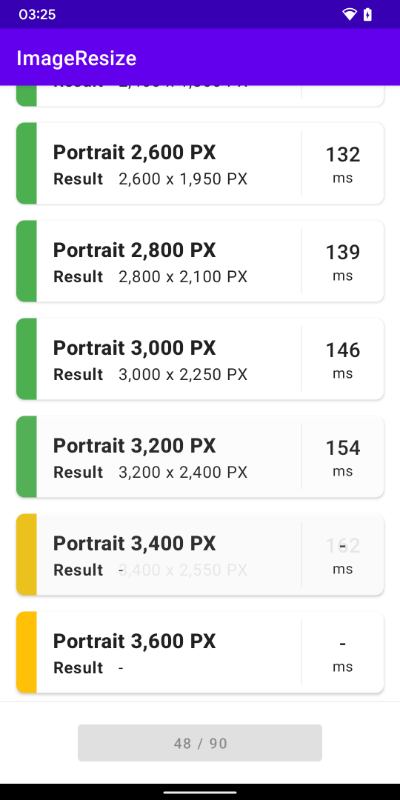
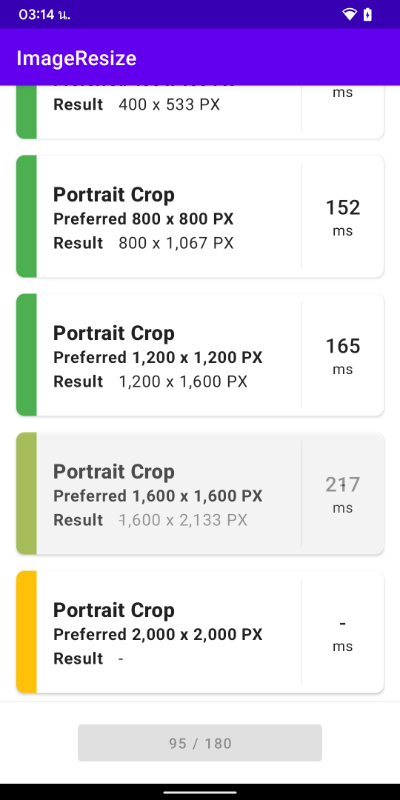
Add different image orientation support

diff --git a/app/src/main/java/com/akexorcist/imageresize/ui/MainViewModel.kt b/app/src/main/java/com/akexorcist/imageresize/ui/MainViewModel.kt
@@ -20,8 +20,8 @@ class MainViewModel(app: Application) : AndroidViewModel(app) {
         private const val FILE_NAME_PORTRAIT = "sample-portrait.jpg"
         private const val FILE_NAME_LANDSCAPE = "sample-landscape.jpg"
         private const val FILE_NAME_SQUARE = "sample-square.jpg"
-        private const val IMAGE_RESIZE_COUNT = 20
-        private const val IMAGE_RESIZE_STEP = 200
+        private const val IMAGE_RESIZE_COUNT = 10
+        private const val IMAGE_RESIZE_STEP = 400
     }
 
     private val imageResizer = ImageResizer()
@@ -53,59 +53,71 @@ class MainViewModel(app: Application) : AndroidViewModel(app) {
     }
 
     fun startImageResize() = viewModelScope.launch(Dispatchers.IO) {
-        val images: List<Triple<ImageRatio, File, ResizeType>> = listOf(
-            Triple(ImageRatio.Landscape, File(context.cacheDir, FILE_NAME_LANDSCAPE), ResizeType.Fill),
-            Triple(ImageRatio.Portrait, File(context.cacheDir, FILE_NAME_PORTRAIT), ResizeType.Fill),
-            Triple(ImageRatio.Square, File(context.cacheDir, FILE_NAME_SQUARE), ResizeType.Fill),
-            Triple(ImageRatio.Landscape, File(context.cacheDir, FILE_NAME_LANDSCAPE), ResizeType.Crop),
-            Triple(ImageRatio.Portrait, File(context.cacheDir, FILE_NAME_PORTRAIT), ResizeType.Crop),
-            Triple(ImageRatio.Square, File(context.cacheDir, FILE_NAME_SQUARE), ResizeType.Crop),
+        val images: List<Pair<ImageRatio, File>> = listOf(
+            ImageRatio.Landscape to File(context.cacheDir, FILE_NAME_LANDSCAPE),
+            ImageRatio.Portrait to File(context.cacheDir, FILE_NAME_PORTRAIT),
+            ImageRatio.Square to File(context.cacheDir, FILE_NAME_SQUARE),
         )
-        val totalImageResizeCount = IMAGE_RESIZE_COUNT * images.size
-        val skipLargerResize = false
+        val resizeTypes = listOf(
+            ResizeType.Fill,
+            ResizeType.Crop
+        )
+        val initialSize = listOf(
+            (IMAGE_RESIZE_STEP * 1.0f).toInt() to (IMAGE_RESIZE_STEP * 1.0f).toInt(),
+            (IMAGE_RESIZE_STEP * 1.2f).toInt() to (IMAGE_RESIZE_STEP * 1.0f).toInt(),
+            (IMAGE_RESIZE_STEP * 1.0f).toInt() to (IMAGE_RESIZE_STEP * 1.2f).toInt()
+        )
+        val totalImageResizeCount = IMAGE_RESIZE_COUNT * images.size * resizeTypes.size * initialSize.size
+        val skipLargerResize = true
         _uiModel.postValue(uiMapper.onImageResizeStarted(totalImageResizeCount))
-        images.forEach { (ratio, file, resizeType) ->
-            val originalImageSize = when (resizeType) {
-                ResizeType.Fill -> imageResizer.getMaxImageSize(file.absolutePath)
-                ResizeType.Crop -> imageResizer.getMinImageSize(file.absolutePath)
-            }
-            (1..IMAGE_RESIZE_COUNT).forEach { index ->
-                val preferredSize = IMAGE_RESIZE_STEP * index
-                updateUiModel {
-                    uiMapper.onImageResizeNext(
-                        uiModel = _uiModel.value,
-                        preferredSize = preferredSize,
-                        ratio = ratio,
-                        total = totalImageResizeCount,
-                        resizeType = resizeType
-                    )
-                }
-                var bitmap: Bitmap?
-                val millis = measureTimeMillis {
-                    bitmap = imageResizer.resize(
-                        preferredSize = preferredSize,
-                        path = file.absolutePath,
-                        resizeType = resizeType,
-                        skipLargerResize = skipLargerResize
-                    )
-                }
-                val width = bitmap?.width ?: -1
-                val height = bitmap?.height ?: -1
+        images.forEach { (ratio, file) ->
+            resizeTypes.forEach { resizeType ->
+                initialSize.forEach { (initialWidth, initialHeight) ->
+                    val (originalImageWidth, originalImageHeight) = imageResizer.getOriginalImageSize(file.absolutePath)
+                    (1..IMAGE_RESIZE_COUNT).forEach { index ->
+                        val preferredWidth = initialWidth * index
+                        val preferredHeight = initialHeight * index
+                        updateUiModel {
+                            uiMapper.onImageResizeNext(
+                                uiModel = _uiModel.value,
+                                preferredWidth = preferredWidth,
+                                preferredHeight = preferredHeight,
+                                ratio = ratio,
+                                total = totalImageResizeCount,
+                                resizeType = resizeType
+                            )
+                        }
+                        var bitmap: Bitmap?
+                        val millis = measureTimeMillis {
+                            bitmap = imageResizer.resize(
+                                preferredWidth = preferredWidth,
+                                preferredHeight = preferredHeight,
+                                path = file.absolutePath,
+                                resizeType = resizeType,
+                                skipLargerResize = skipLargerResize
+                            )
+                        }
+                        val width = bitmap?.width ?: -1
+                        val height = bitmap?.height ?: -1
 //                bitmap?.let { saveToStorage(it, preferredSize, ratio) }
-                bitmap?.recycle()
-                updateUiModel {
-                    uiMapper.onImageResizeStatusUpdated(
-                        uiModel = _uiModel.value,
-                        originalSize = originalImageSize,
-                        preferredSize = preferredSize,
-                        actualWidth = width,
-                        actualHeight = height,
-                        executionTime = millis,
-                        ratio = ratio,
-                        resizeType = resizeType,
-                        total = totalImageResizeCount,
-                        skipLargerResize = skipLargerResize
-                    )
+                        bitmap?.recycle()
+                        updateUiModel {
+                            uiMapper.onImageResizeStatusUpdated(
+                                uiModel = _uiModel.value,
+                                originalWidth = originalImageWidth,
+                                originalHeight = originalImageHeight,
+                                preferredWidth = preferredWidth,
+                                preferredHeight = preferredHeight,
+                                actualWidth = width,
+                                actualHeight = height,
+                                executionTime = millis,
+                                ratio = ratio,
+                                resizeType = resizeType,
+                                total = totalImageResizeCount,
+                                skipLargerResize = skipLargerResize
+                            )
+                        }
+                    }
                 }
             }
         }

diff --git a/app/src/main/java/com/akexorcist/imageresize/ui/MainUiMapper.kt b/app/src/main/java/com/akexorcist/imageresize/ui/MainUiMapper.kt
@@ -23,7 +23,8 @@ class MainUiMapper {
 
     fun onImageResizeNext(
         uiModel: MainUiModel?,
-        preferredSize: Int,
+        preferredWidth: Int,
+        preferredHeight: Int,
         total: Int,
         ratio: ImageRatio,
         resizeType: ResizeType
@@ -32,7 +33,8 @@ class MainUiMapper {
         val addedResults = results.toMutableList().apply {
             add(
                 TestResult(
-                    preferredSize = preferredSize,
+                    preferredWidth = preferredWidth,
+                    preferredHeight = preferredHeight,
                     actualWidth = -1,
                     actualHeight = -1,
                     executionTime = -1,
@@ -51,8 +53,10 @@ class MainUiMapper {
 
     fun onImageResizeStatusUpdated(
         uiModel: MainUiModel?,
-        originalSize: Int,
-        preferredSize: Int,
+        originalWidth: Int,
+        originalHeight: Int,
+        preferredWidth: Int,
+        preferredHeight: Int,
         actualWidth: Int,
         actualHeight: Int,
         executionTime: Long,
@@ -62,22 +66,27 @@ class MainUiMapper {
         skipLargerResize: Boolean
     ): MainUiModel {
         val results = uiModel?.results ?: listOf()
-        val maxActualSize = actualWidth.coerceAtLeast(actualHeight)
-        val minActualSize = actualWidth.coerceAtMost(actualHeight)
-        val expectSize =
-            if(skipLargerResize) originalSize.coerceAtMost(preferredSize)
-            else preferredSize
         val state = when {
-            resizeType == ResizeType.Fill && maxActualSize == expectSize -> ResizeStatus.Pass
-            resizeType == ResizeType.Crop && minActualSize == expectSize -> ResizeStatus.Pass
+            resizeType == ResizeType.Fill &&
+                    (actualWidth == preferredWidth || actualHeight == preferredHeight) &&
+                    (actualWidth <= preferredWidth && actualHeight <= preferredHeight) ||
+                    (skipLargerResize && actualWidth == originalWidth && actualHeight == originalHeight) ->
+                ResizeStatus.Pass
+            resizeType == ResizeType.Crop &&
+                    (actualWidth == preferredWidth || actualHeight == preferredHeight) &&
+                    (actualWidth >= preferredWidth && actualHeight >= preferredHeight) ||
+                    (skipLargerResize && actualWidth == originalWidth && actualHeight == originalHeight) ->
+                ResizeStatus.Pass
             else -> ResizeStatus.Failed
         }
         val updatedResults = results.map {
-            if (preferredSize == it.preferredSize &&
+            if (preferredWidth == it.preferredWidth &&
+                preferredHeight == it.preferredHeight &&
                 ratio == it.ratio &&
                 resizeType == it.resizeType
             ) TestResult(
-                preferredSize = preferredSize,
+                preferredWidth = preferredWidth,
+                preferredHeight = preferredHeight,
                 actualWidth = actualWidth,
                 actualHeight = actualHeight,
                 executionTime = executionTime,

diff --git a/app/src/main/java/com/akexorcist/imageresize/resize/ImageResizer.kt b/app/src/main/java/com/akexorcist/imageresize/resize/ImageResizer.kt
@@ -1,11 +1,13 @@
 package com.akexorcist.imageresize.resize
 
+import android.content.Context
 import android.graphics.Bitmap
 import android.graphics.BitmapFactory
 
 class ImageResizer {
     fun resize(
-        preferredSize: Int,
+        preferredWidth: Int,
+        preferredHeight: Int,
         path: String,
         resizeType: ResizeType,
         skipLargerResize: Boolean = true,
@@ -13,33 +15,41 @@ class ImageResizer {
         return BitmapFactory.Options().run {
             inJustDecodeBounds = true
             BitmapFactory.decodeFile(path, this)
-            inSampleSize = calculateInSampleSize(this, preferredSize, preferredSize)
+            inSampleSize = calculateInSampleSize(this, preferredWidth, preferredHeight)
             inJustDecodeBounds = false
-            val expectSize = when (resizeType) {
-                ResizeType.Fill -> outWidth.coerceAtLeast(outHeight)
-                ResizeType.Crop -> outWidth.coerceAtMost(outHeight)
-            }
-            if (!skipLargerResize || expectSize > preferredSize) {
-                inDensity = expectSize
-                inTargetDensity = preferredSize * inSampleSize
+            if(!skipLargerResize || preferredWidth < outWidth && preferredHeight < outHeight) {
+                val outRatio = outWidth.toFloat() / outHeight.toFloat()
+                val reqRatio = preferredWidth.toFloat() / preferredHeight.toFloat()
+                when (resizeType) {
+                    ResizeType.Fill -> {
+                        if (outRatio > reqRatio) {
+                            inDensity = outWidth
+                            inTargetDensity = preferredWidth * inSampleSize
+                        } else if (outRatio <= reqRatio) {
+                            inDensity = outHeight
+                            inTargetDensity = preferredHeight * inSampleSize
+                        }
+                    }
+                    ResizeType.Crop -> {
+                        if (outRatio > reqRatio) {
+                            inDensity = outHeight
+                            inTargetDensity = preferredHeight * inSampleSize
+                        } else if (outRatio <= reqRatio) {
+                            inDensity = outWidth
+                            inTargetDensity = preferredWidth * inSampleSize
+                        }
+                    }
+                }
             }
             BitmapFactory.decodeFile(path, this)
         }
     }
 
-    fun getMaxImageSize(path: String): Int {
+    fun getOriginalImageSize(path: String): Pair<Int, Int> {
         return BitmapFactory.Options().run {
             inJustDecodeBounds = true
             BitmapFactory.decodeFile(path, this)
-            outWidth.coerceAtLeast(outHeight)
-        }
-    }
-
-    fun getMinImageSize(path: String): Int {
-        return BitmapFactory.Options().run {
-            inJustDecodeBounds = true
-            BitmapFactory.decodeFile(path, this)
-            outWidth.coerceAtMost(outHeight)
+            outWidth to outHeight
         }
     }
 

diff --git a/app/src/main/java/com/akexorcist/imageresize/ui/adapter/TestResultViewHolder.kt b/app/src/main/java/com/akexorcist/imageresize/ui/adapter/TestResultViewHolder.kt
@@ -19,7 +19,7 @@ class TestResultViewHolder(
 
     fun bind(result: TestResult) {
         updateTitle(result.ratio, result.resizeType)
-        updatePreferredSize(result.preferredSize)
+        updatePreferredSize(result.preferredWidth, result.preferredHeight)
         updateActualSize(result.actualWidth, result.actualHeight)
         updateExecutionTime(result.executionTime)
         updateStatus(result.status)
@@ -42,10 +42,11 @@ class TestResultViewHolder(
         )
     }
 
-    private fun updatePreferredSize(preferredSize: Int) {
+    private fun updatePreferredSize(preferredWidth: Int, preferredHeight: Int) {
         binding.textViewPreferredSize.text = context.getString(
             R.string.result_preferred_size,
-            numberUtils.toDisplayNumber(preferredSize)
+            numberUtils.toDisplayNumber(preferredWidth),
+            numberUtils.toDisplayNumber(preferredHeight)
         )
     }
 

diff --git a/app/src/main/java/com/akexorcist/imageresize/ui/adapter/TestResultDiffUtil.kt b/app/src/main/java/com/akexorcist/imageresize/ui/adapter/TestResultDiffUtil.kt
@@ -8,8 +8,10 @@ class TestResultDiffUtil(
     private val newItem: List<TestResult>
 ) : DiffUtil.Callback() {
     override fun areItemsTheSame(oldItemPosition: Int, newItemPosition: Int): Boolean {
-        return oldItem.getOrNull(oldItemPosition)?.preferredSize ==
-                newItem.getOrNull(newItemPosition)?.preferredSize &&
+        return oldItem.getOrNull(oldItemPosition)?.preferredWidth ==
+                newItem.getOrNull(newItemPosition)?.preferredWidth &&
+        return oldItem.getOrNull(oldItemPosition)?.preferredHeight ==
+                newItem.getOrNull(newItemPosition)?.preferredHeight &&
                 oldItem.getOrNull(oldItemPosition)?.ratio ==
                 newItem.getOrNull(newItemPosition)?.ratio &&
                 oldItem.getOrNull(oldItemPosition)?.resizeType ==

diff --git a/app/src/main/java/com/akexorcist/imageresize/vo/TestResult.kt b/app/src/main/java/com/akexorcist/imageresize/vo/TestResult.kt
@@ -6,7 +6,8 @@ import kotlinx.parcelize.Parcelize
 
 @Parcelize
 data class TestResult(
-    val preferredSize: Int,
+    val preferredWidth: Int,
+    val preferredHeight: Int,
     val actualWidth: Int,
     val actualHeight: Int,
     val executionTime: Long,
